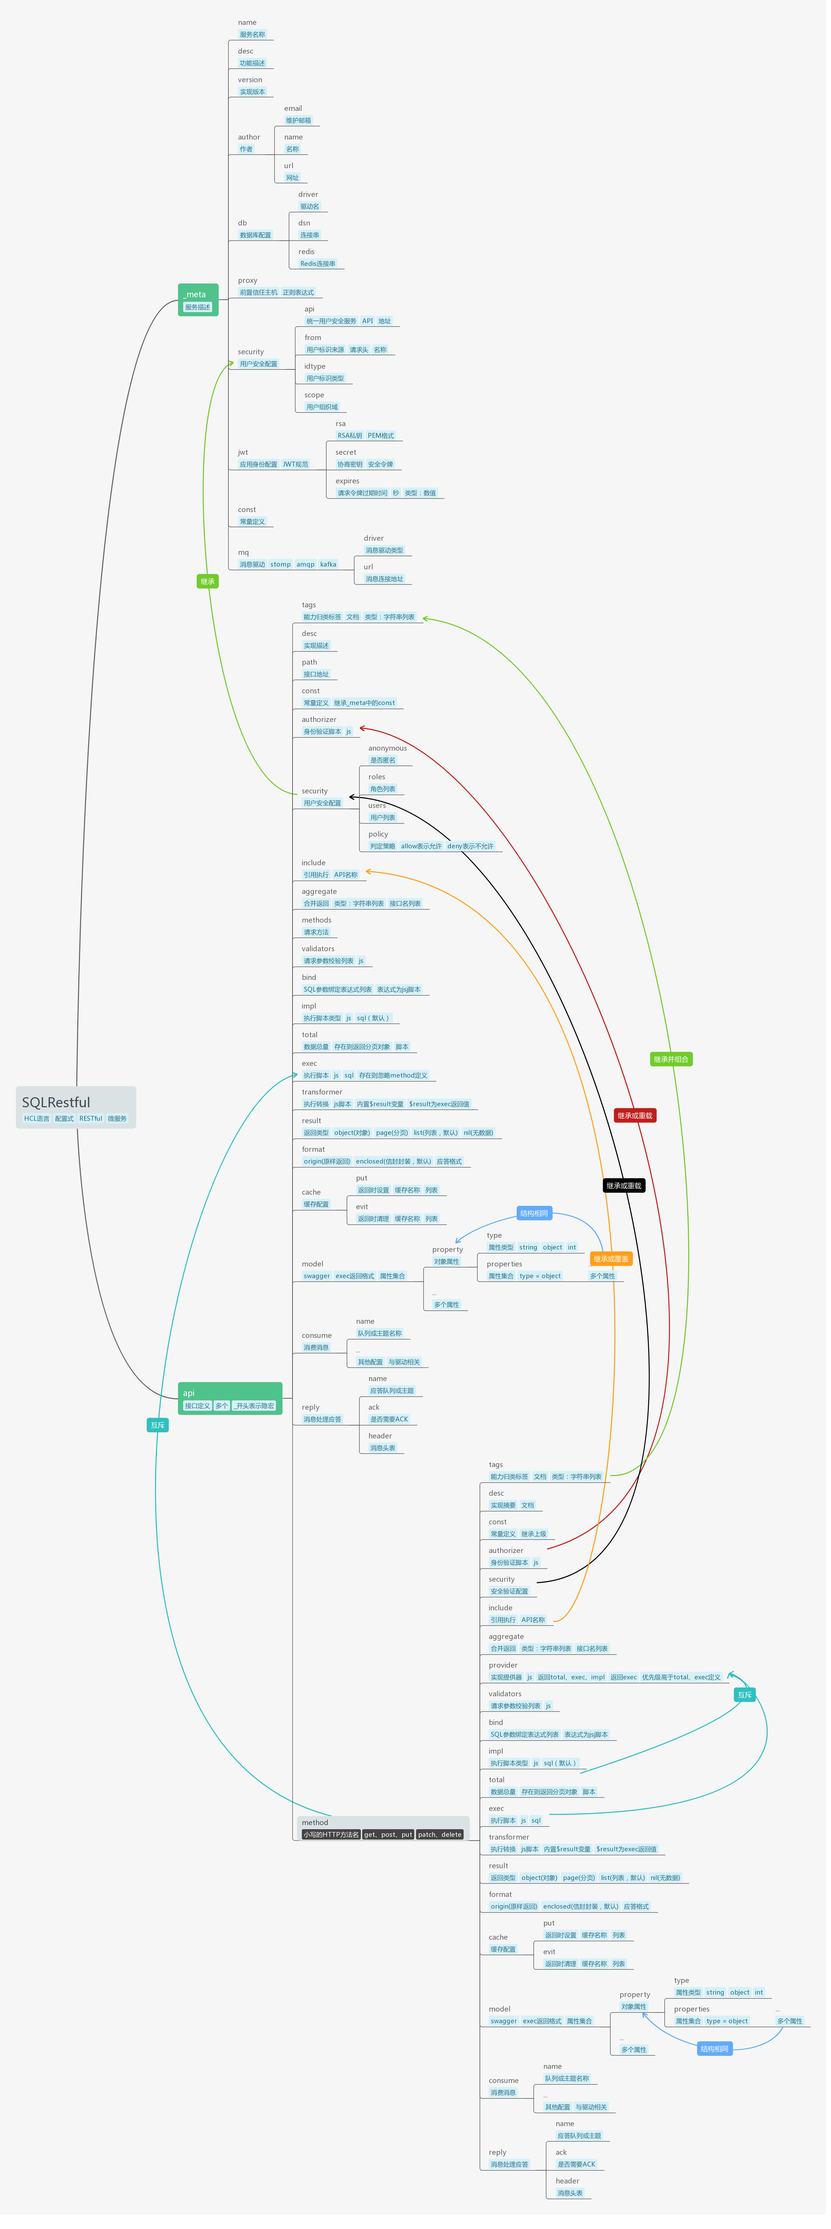
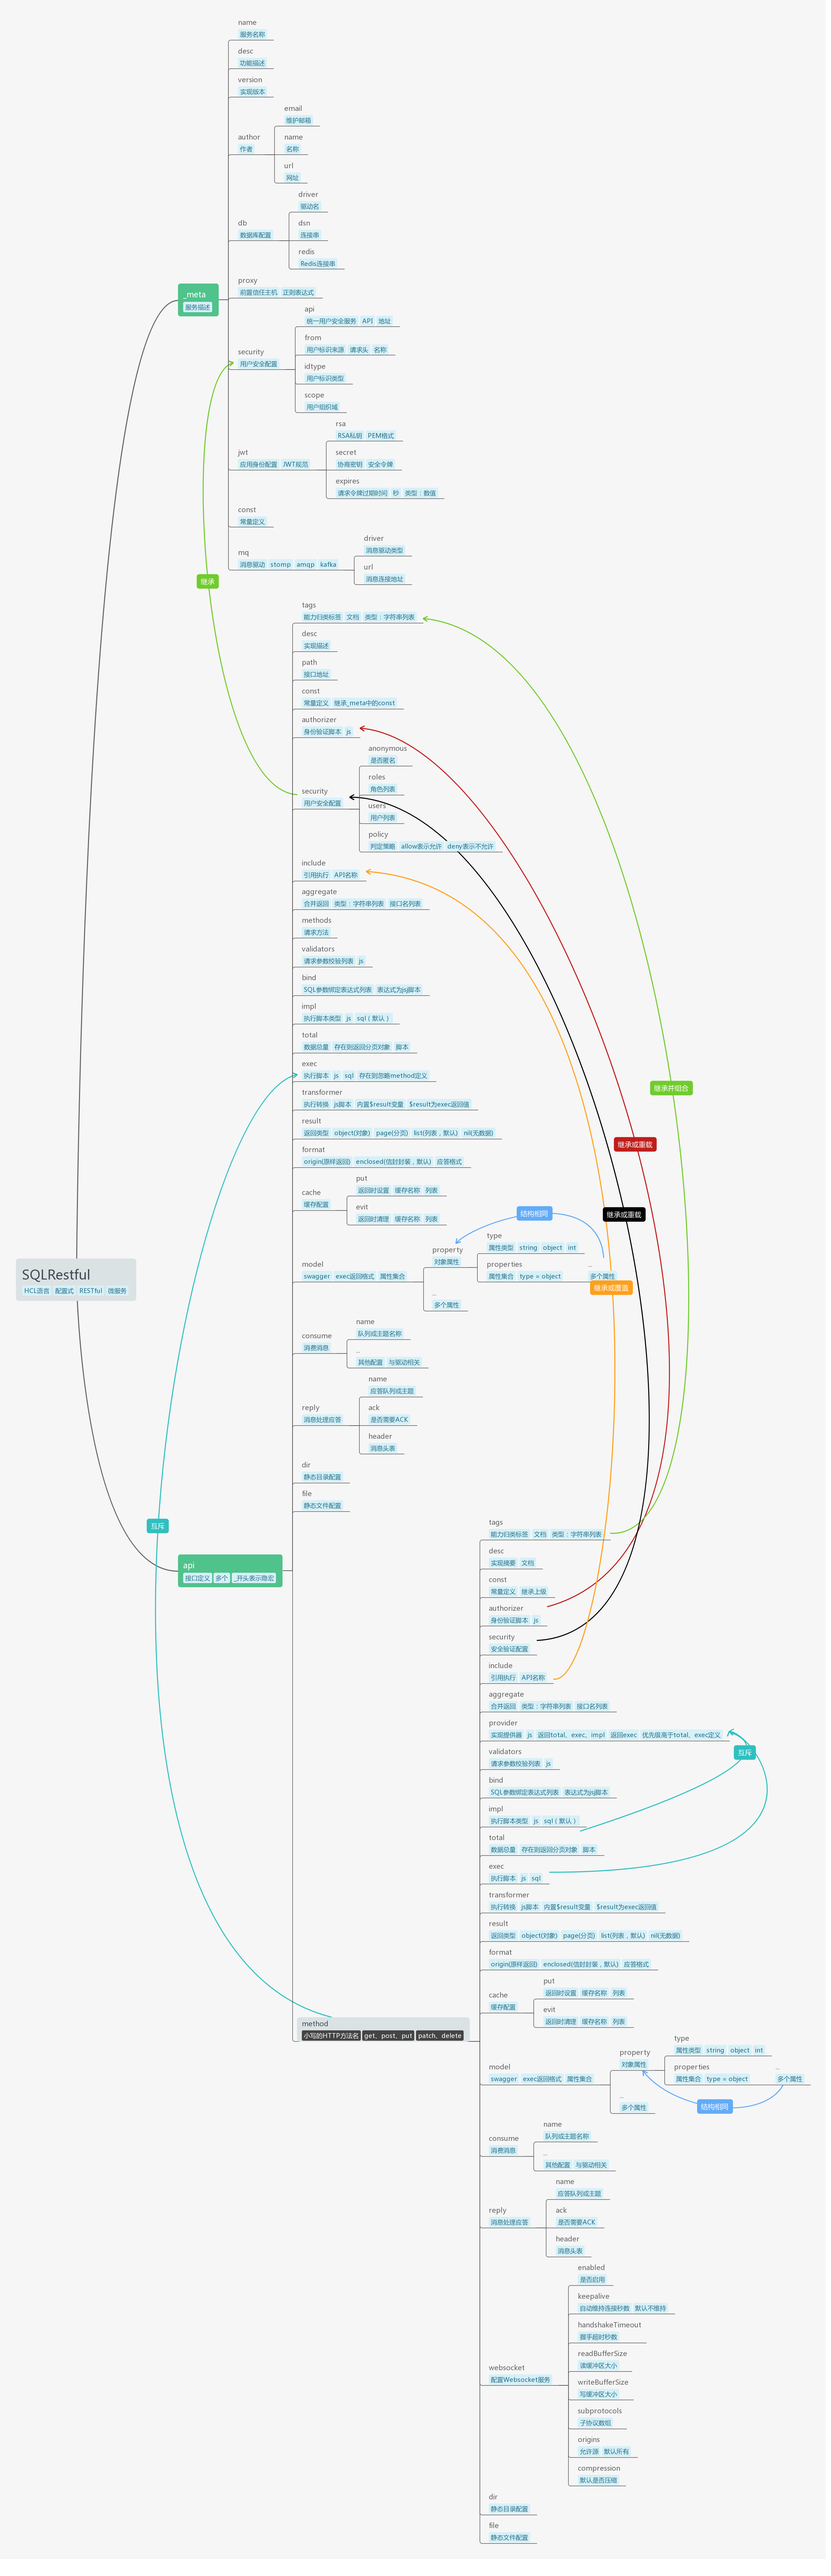
完善文档。

diff --git a/docs/js.md b/docs/js.md
@@ -56,6 +56,8 @@ test {
 | `$input.http_uri` | 当前请求URI地址 |
 | `$input.http_remote_addr` | 当前请求远程IP地址（或前置代理地址） |
 | `$input.http_real_ip` | 当前请求真实IP地址：<br>请求头`X-Forwarded-For`或`X-Real-IP`的值 |
+| `$input.data` | 消息对象，接口定义为监听消息队列或者`websocket`接口时 |
+| `$input.__clientid__` | 客户端ID，接口为`websocket`时 |
 | $name | 当前微服务实现宏名称 |
 | $stage | 宏`JS`所在过程名称：validators、authorizer、const、<br>transformer、bind、provider、exec、total |
 
@@ -70,6 +72,10 @@ test {
   - `log`
   - `exec_sql`
   - `exec_cmd`
+  - `emit_msg`
+  - `ws_broacast`
+  - `ws_send`
+  - `call_macro`
 
 ### `fetch`函数
 
@@ -206,5 +212,63 @@ emit_msg(dest, msg, headers{...})
 ```js
 (function(){
   var dirout = emit_msg("app.foo.bar", "test message queue")
+})()
+```
+
+### `ws_broacast`函数
+
+用于广播`websocket`消息。
+
+
+**函数原型**
+
+```js
+ws_broacast(endpoint, msg{...})
+```
+
+**使用示例**
+
+```js
+(function(){
+  ws_broacast("test", "test msg")
+})()
+```
+
+
+### `ws_send`函数
+
+用于发送`websocket`消息到指定的客户端。
+
+
+**函数原型**
+
+```js
+ws_send(endpoint, clientid, msg{...})
+```
+
+**使用示例**
+
+```js
+(function(){
+  ws_send("test", $input.__clientid__, "test msg")
+})()
+```
+
+### `call_macro`函数
+
+用于请求其他的定义实现。
+
+
+**函数原型**
+
+```js
+exec_macro(macro, input{...})
+```
+
+**使用示例**
+
+```js
+(function(){
+  exec_macro("input", {test:"test msg"})
 })()
 ```

diff --git a/docs/macro.md b/docs/macro.md
@@ -300,6 +300,39 @@ method {
   //执行并组合其他接口返回值，存在则忽略其他定义
   aggregate = [ ... ]
 
+  //定义Websocket接口
+  websocket {
+
+    //是否启用
+    enabled = true
+
+    //握手超时时间
+    handshakeTimeout = 60
+
+    //保持会话秒
+    keepalive = 25
+
+    //读取缓冲区大小
+    readBufferSize = 512
+
+    //写入缓冲区大小
+    writeBufferSize = 512
+
+    //是否默认启用压缩
+    compression = true
+
+    //子协议数组
+    subprotocols = [ ... ]
+
+    //允许的请求源正则表达式数组
+    origins = [...]
+  }
+
+  //映射的静态目录
+  dir = "/path/to/directory"
+
+  //映射的静态文件
+  file = "/path/to/file"
 }
 
 ```
@@ -396,11 +429,11 @@ method {
 
 #### `exec`
 
-接口实现脚本。
+服务接口实现脚本
 
 #### `transformer`
 
-接口实现脚本返回转换脚本。
+用于转换`exec`执行返回的数据，采用`js`脚本实现。
 
 #### `result`
 
@@ -413,4 +446,16 @@ method {
 #### `aggregate`
 
 组合其他接口定义执行返回。
+
+#### `websocket`
+
+定义接口是否为`websocket`服务，当启用了`websocket`服务时，接口定义的脚本在客户端消息到达时被执行。
+
+#### `dir`
+
+定义静态文件目录路由，存在时忽略其他配置，只返回目标文件夹中的静态文件。
+
+#### `file`
+
+定义静态文件路由，存在时忽略其他配置，只返回目标静态文件。
 

diff --git a/docs/websocket.md b/docs/websocket.md
@@ -1,0 +1,57 @@
+# 实现websocket服务接口
+
+## 应用场景
+
+当我们需要与客户端建立长连接通道时需要使用`websocket`。
+
+SQLRestful中定义的`websocket`服务接口采用客户端消息驱动机制实现：
+
+每次任何一个客户端消息到达时都会执行接口定义的`exec`脚本，其会把最终执行结果作为一个JSON消息对象发送给消息发送客户端（定义`format`等于`nil`时则不返回消息）
+
+
+## 实现`websocket`接口
+
+### 语法结构
+
+```
+test {
+  websocket {
+    enabled = true
+  }
+
+  impl = "js"
+
+  exec = <<JS
+  ...
+  JS  
+}
+
+```
+
+在`exec`中可以通过以下变量获取请求信息：
+
+  - `$input.__clientid__`： 获取当前发送消息的客户端ID
+  - `$input.data`：获取到客户端发送的消息对象
+
+### 可用的`js`函数
+
+#### `ws_broacast`
+
+```js
+ws_broacast('<接口名称，如：test>', {
+  ...
+})
+```
+
+#### `ws_send`
+
+```js
+ws_send('接口名称，如：test', '客户端ID', {
+  ...
+})
+```
+
+### 其他说明
+
+通过消息队列与数据库配合即可复杂的`websocket`应用。
+

diff --git a/docs/mq.md b/docs/mq.md
@@ -2,8 +2,7 @@
 
 ## 应用场景
 
-有时可能需要接收来自消息消息队列中的消息入库或执行某个操作（如：流式数据计算时），或者把`Restful`请求转入消息队列时
-就需要使用消息处理机制。
+有时可能需要接收来自消息消息队列中的消息入库或执行某个操作（如：流式数据计算时），或者把`Restful`请求转入消息队列时就需要使用消息处理机制。
 
 在`SQLRestful`中我们也是使用配置式的方式使用消息队列能力。
 

diff --git a/docs/macros.md b/docs/macros.md
@@ -6,6 +6,11 @@
 
 `SQLRestful`设计上遵循`Restful`规范，采用路径、方法对应对象的不同操作语义，具体结构如下图所示：
 
-
-<img src="img/sqlrestful.png" width="99.5%" />
+<div style="line-height:0">
+<img src="img/sqlrestful1.png" width="100%" />
+<img src="img/sqlrestful2.png" width="100%" />
+<img src="img/sqlrestful3.png" width="100%" />
+<img src="img/sqlrestful4.png" width="100%" />
+<img src="img/sqlrestful5.png" width="100%" />
+</div>
 

diff --git a/docs/SUMMARY.md b/docs/SUMMARY.md
@@ -17,6 +17,7 @@
   * [5.4 使用`JWT`身份令牌请求其他接口](jwt.md)
   * [5.5 使用用户统一安全认证服务](xeai.md)
   * [5.6 监听消息队列与发送消息](mq.md)
-  * [5.7 以容器(`docker`)方式部署服务](custom.md)
+  * [5.7 实现websocket服务接口](websocket.md)
+  * [5.8 以容器(`docker`)方式部署服务](custom.md)
 * [6、数据库支持列表](db.md)
 * [7、消息协议支持列表](mqm.md)

diff --git a/docs/ret.md b/docs/ret.md
@@ -48,7 +48,7 @@ format = "origin"
 
 ## 不返回任何数据
 
-如果需要接口不返回任何数据时，你可以在接口配置上添加'ret = "nil"'，此时接口仅返回封装头：
+如果需要接口不返回任何数据时，你可以在接口配置上添加'format = "nil"'，此时接口仅返回封装头：
 
 ```json
 {
